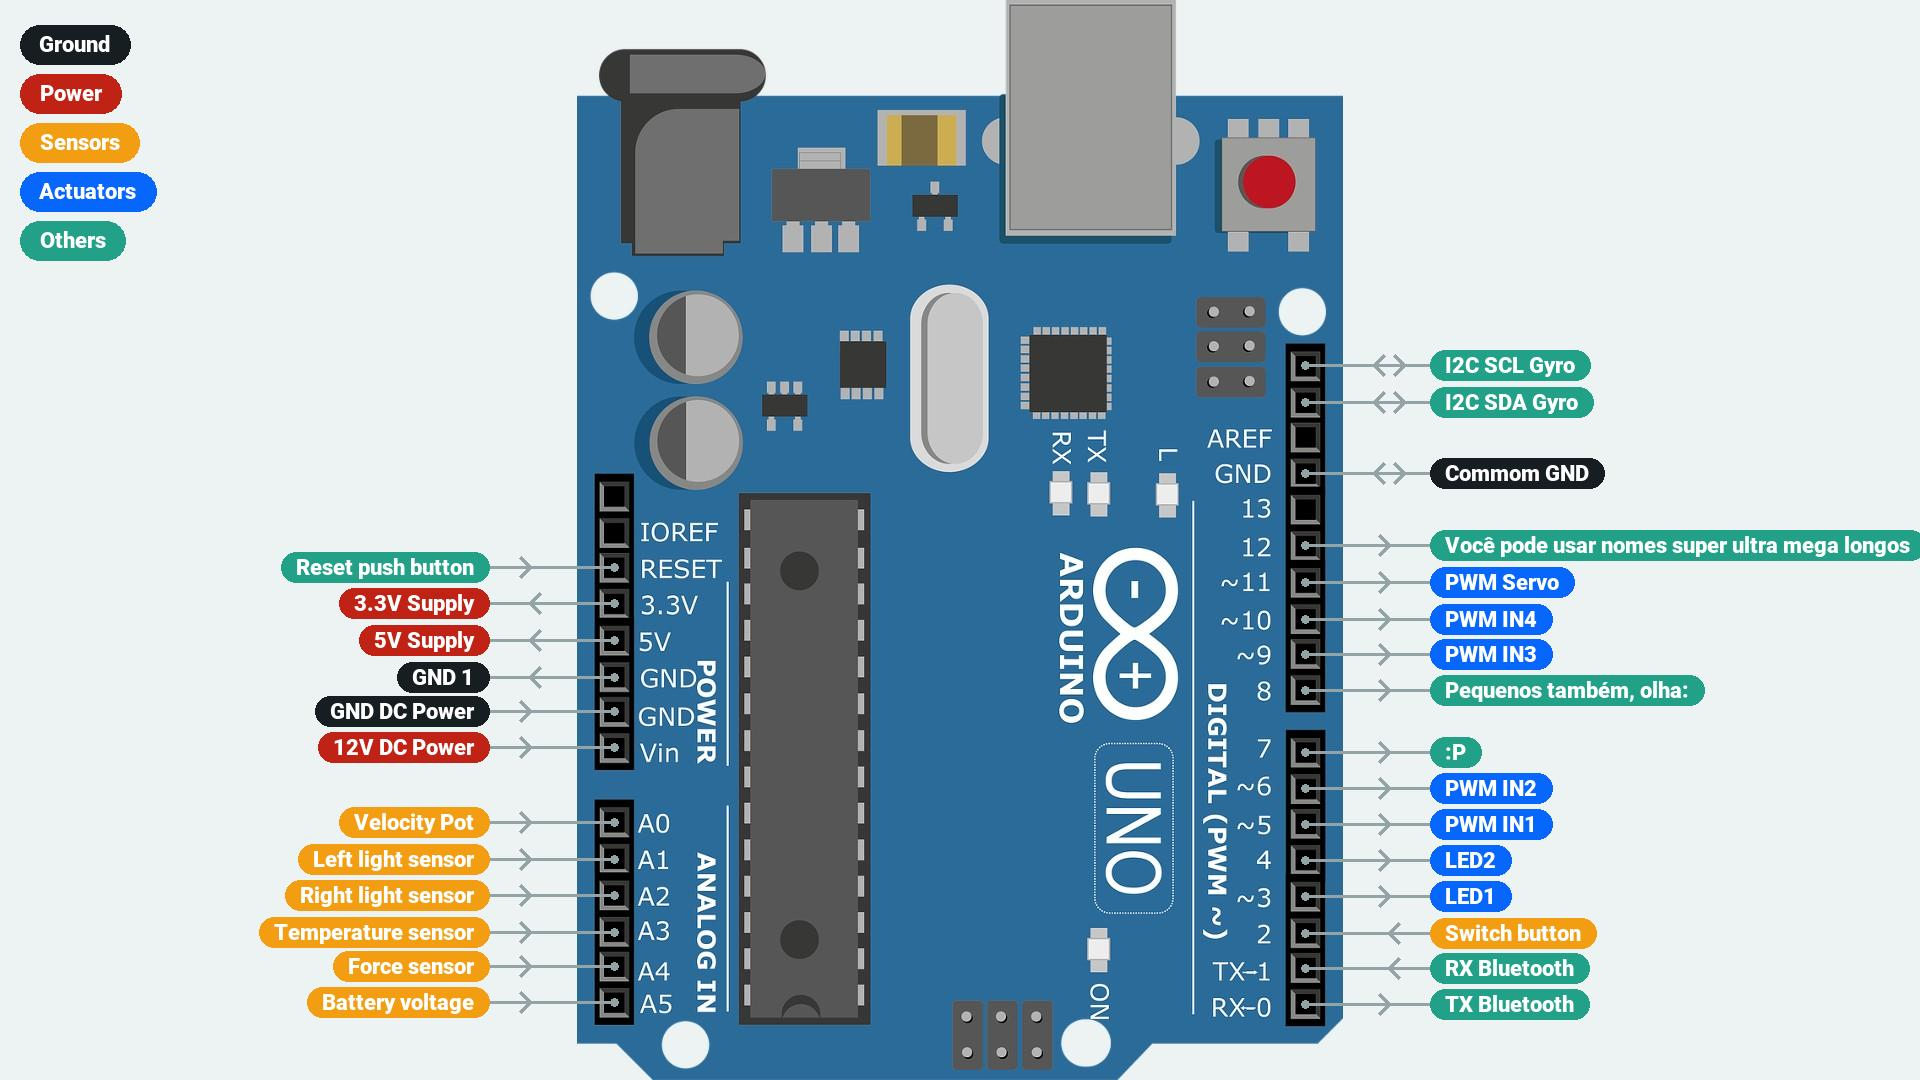
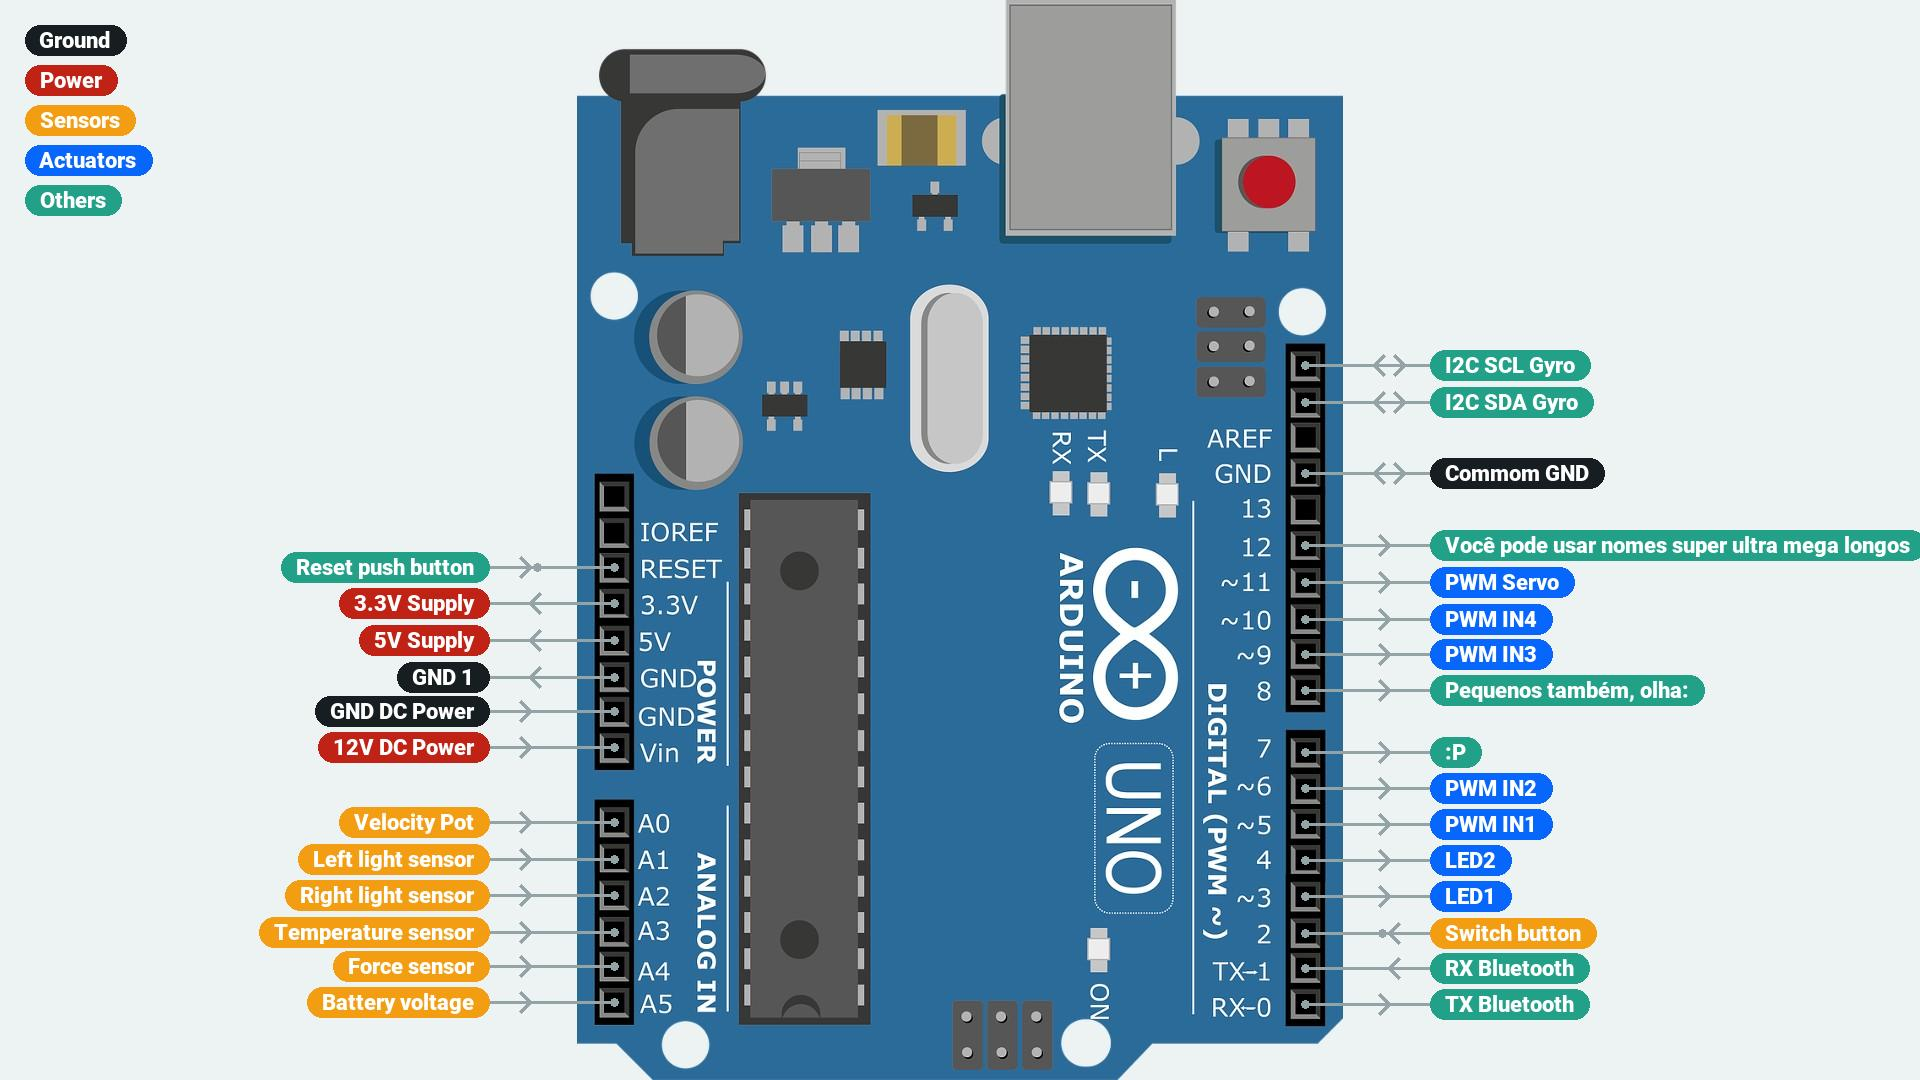
feat: pullup option
close #1

Changed region(s): [[0.0, 0.0306, 0.0938, 0.2444]]

diff --git a/src/draw.py b/src/draw.py
@@ -11,7 +11,7 @@ class Draw:
         self.ports = self.board.ports
         self.font = ImageFont.truetype(self.board.font_path, self.sizes.font)
 
-    def input_arrow(self, x, y, connection_color, draw):
+    def right_arrow(self, x, y, connection_color, draw):
         draw.line(
             (
                 x-self.sizes.connection_size*0.6,
@@ -33,7 +33,7 @@ class Draw:
             width=self.sizes.connection_width
         )
 
-    def output_arrow(self, x, y, connection_color, draw):
+    def left_arrow(self, x, y, connection_color, draw):
         draw.line(
             (
                 x-self.sizes.connection_size*0.6,
@@ -73,10 +73,10 @@ class Draw:
         if right_side:
             self.sizes.connection_size = -abs(self.sizes.connection_size)
 
-            if connection_to_draw.in_out == 'in':
-                connection_to_draw.in_out = 'out'
-            elif connection_to_draw.in_out == 'out':
-                connection_to_draw.in_out = 'in'
+            if connection_to_draw.in_out == "Input":
+                connection_to_draw.in_out = "Output"
+            elif connection_to_draw.in_out == "Output":
+                connection_to_draw.in_out = "Input"
 
         else:
             self.sizes.connection_size = abs(self.sizes.connection_size)
@@ -99,15 +99,37 @@ class Draw:
             width=self.sizes.connection_width
         )
 
-        if connection_to_draw.in_out == 'in':
-            self.input_arrow(x, y, connection_color, draw)
+        if connection_to_draw.in_out == "Input":
+            self.right_arrow(x, y, connection_color, draw)
 
-        elif connection_to_draw.in_out == 'out':
-            self.output_arrow(x, y, connection_color, draw)
+        elif connection_to_draw.in_out == "Output":
+            self.left_arrow(x, y, connection_color, draw)
 
-        elif connection_to_draw.in_out == 'in_out':
-            self.output_arrow(x-15, y, connection_color, draw)
-            self.input_arrow(x+15, y, connection_color, draw)
+        elif connection_to_draw.in_out == "Input_Output":
+            self.left_arrow(x-15, y, connection_color, draw)
+            self.right_arrow(x+15, y, connection_color, draw)
+
+        elif connection_to_draw.in_out == "InputPullup":
+
+            if right_side:
+                self.left_arrow(x, y, connection_color, draw)
+            else:
+                self.right_arrow(x, y, connection_color, draw)
+
+            init_x = x - self.sizes.connection_radius
+            init_y = y - self.sizes.connection_radius
+            end_x = x + self.sizes.connection_radius
+            end_y = y + self.sizes.connection_radius
+
+            draw.ellipse(
+                (
+                    (init_x)-self.sizes.connection_size*0.55,
+                    (init_y),
+                    (end_x)-self.sizes.connection_size*0.55,
+                    (end_y)
+                ),
+                fill=connection_color
+            )
 
     def name(self, connection_to_draw: Connection):
         '''
